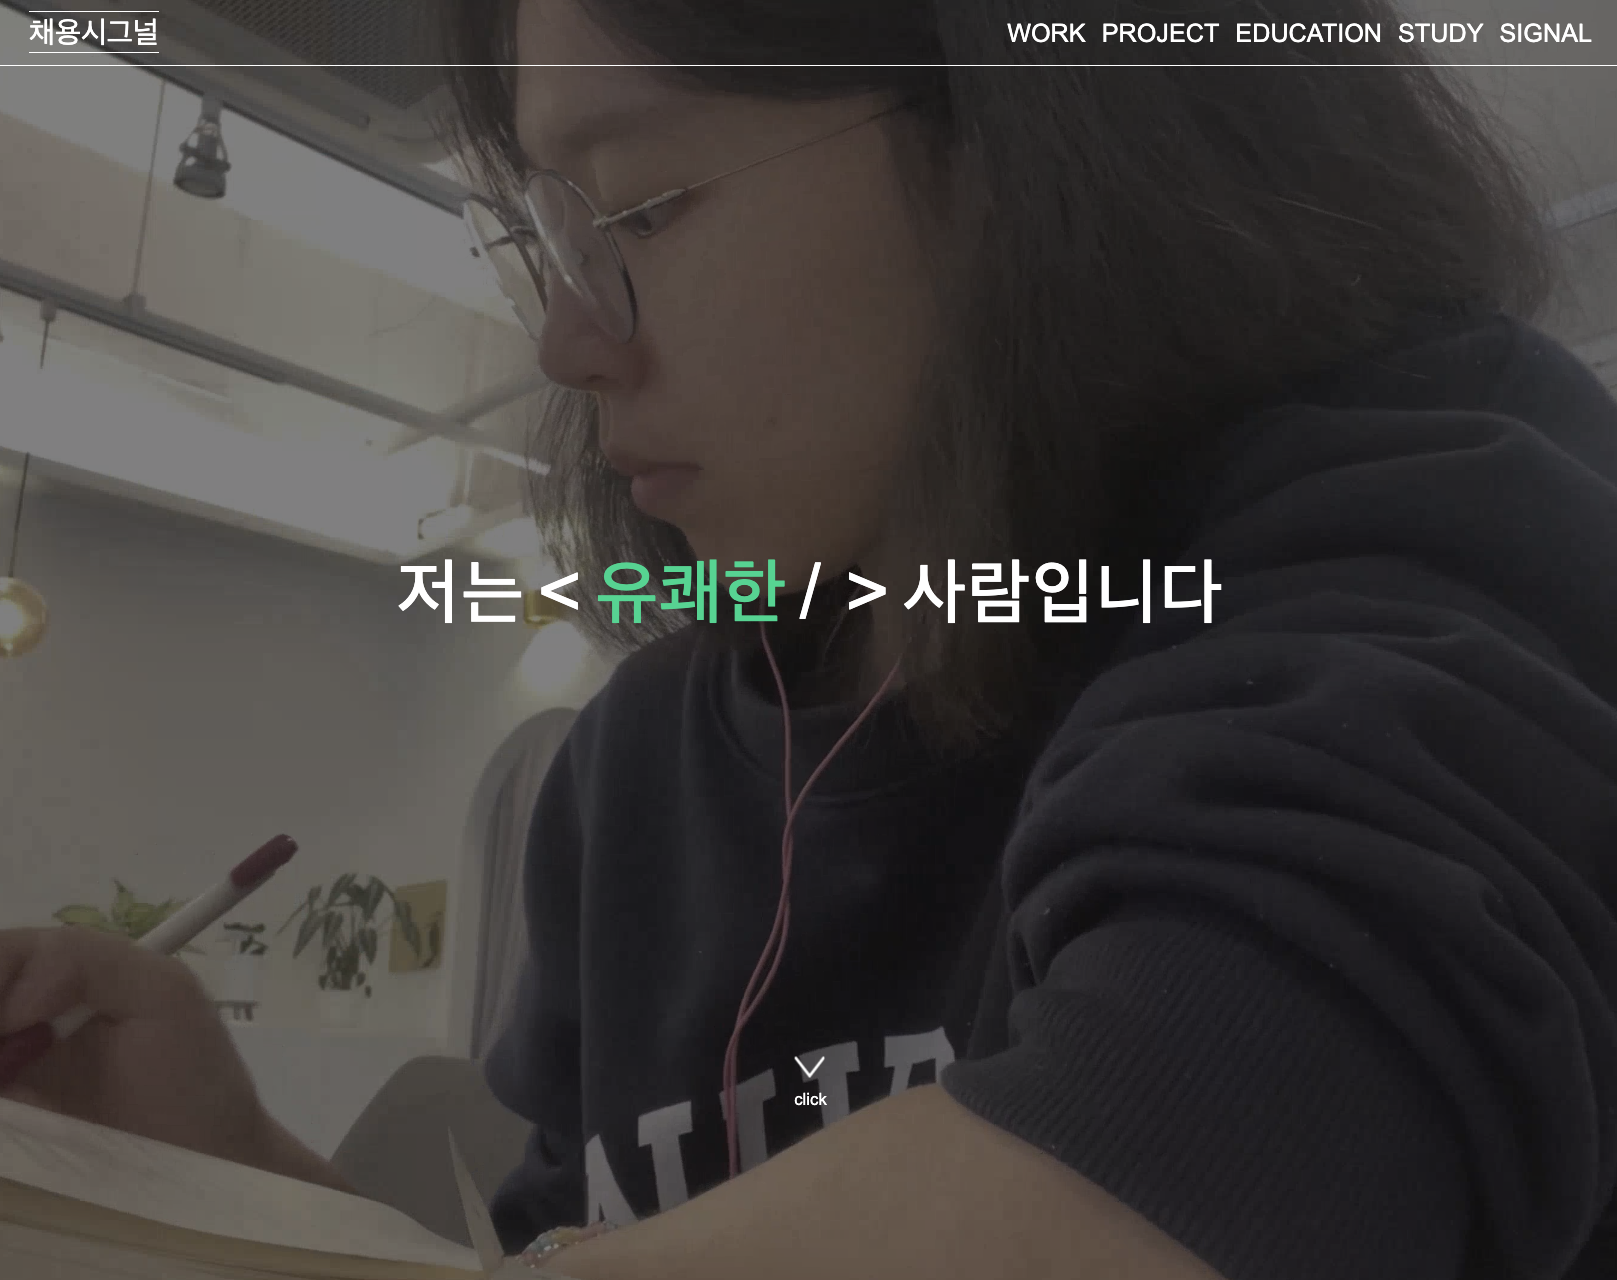
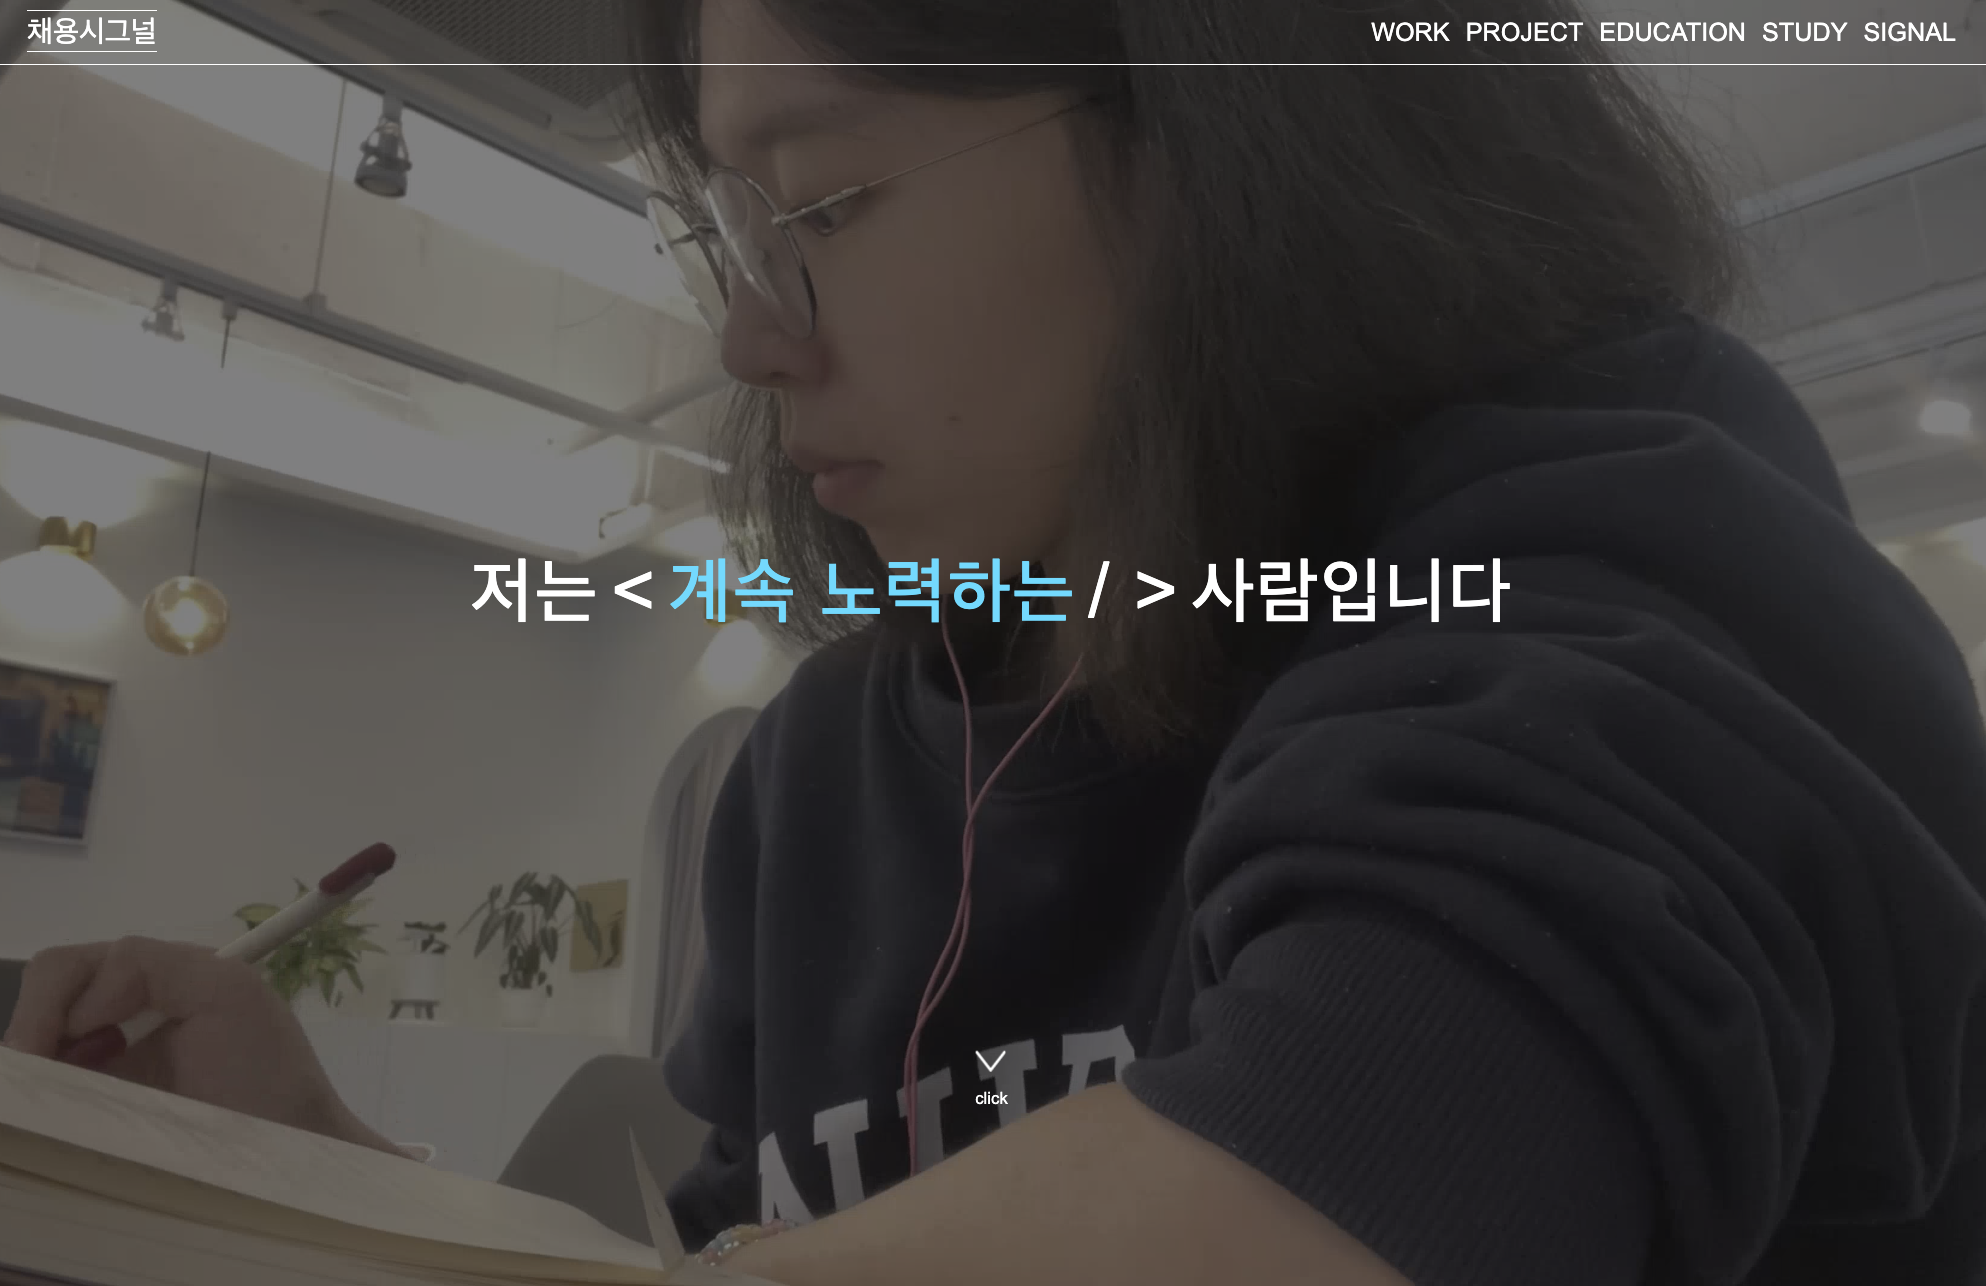
style: css 수정

diff --git a/src/app/globals.css b/src/app/globals.css
@@ -2,20 +2,7 @@
 @tailwind components;
 @tailwind utilities;
 
-/* @import 'tailwindcss/base'; */
-/* @import 'tailwindcss/components'; */
-/* @import './base.css'; */
-/* @import 'tailwindcss/utilities'; */
-
-/* @font-face {
-  font-family: 'EF_watermelonSalad';
-  src: url('https://cdn.jsdelivr.net/gh/projectnoonnu/noonfonts_2210-EF@1.0/EF_watermelonSalad.woff2')
-    format('woff2');
-  font-weight: normal;
-  font-style: normal;
-} */
 /* 배경색 좌에서 우로 채우는 효과 */
-
 .bg-color-container {
   position: relative;
 }
@@ -33,9 +20,8 @@
 .bg-color-container.hovered::before {
   transform: scaleX(1);
 }
-.bg-color-container:hover {
-}
 
+/* 전역 배경 색깔 */
 .peach-mode {
   animation-name: globalBgToPeach;
   animation-duration: 0.2s;
@@ -46,7 +32,7 @@
   animation-duration: 0.1s;
   animation-fill-mode: forwards;
 }
-/* 전역 배경 색깔 */
+
 @keyframes globalBgToPurple {
   from {
     background-color: white;
@@ -83,16 +69,6 @@ figure,
 p,
 pre {
   margin: 0;
-}
-
-h1,
-h2,
-h3,
-h4,
-h5,
-h6 {
-  /* font-family: EF_watermelonSalad; */
-  /* font-family: var(--font-gown-batang); */
 }
 
 ol,

diff --git a/src/app/components/Sections/Video/Typing.tsx b/src/app/components/Sections/Video/Typing.tsx
@@ -2,7 +2,6 @@
 
 import { keyword } from '@/app/constant';
 import useTyping from '@/app/hooks/useTyping';
-
 export default function Typing() {
   const word = useTyping(keyword);
 
@@ -14,7 +13,7 @@ export default function Typing() {
 
       <div className=" flex mx-3 mobile:mx-0 mobile:my-3 tablet:mx-0 tablet:my-5">
         <span> &lt;</span>
-        <span className="mx-3 text-[#00DD99]">{word}</span>
+        <span className="mx-3 text-[#59E1FF]">{word}</span>
         <span> &#47; &gt;</span>
       </div>
 

diff --git a/src/app/components/Sections/Video/Video.tsx b/src/app/components/Sections/Video/Video.tsx
@@ -9,7 +9,6 @@ export default function Video() {
       className="absolute w-screen h-screen object-cover brightness-50"
       loop
       preload="auto"
-      poster="/images/siagnal-thumbnail.png"
       data-setup="{}">
       <source src="/videos/signal.mp4" type="video/mp4"></source>
       <source src="/videos/signal.ogv" type="video/ogv"></source>

diff --git a/src/app/constant/index.ts b/src/app/constant/index.ts
@@ -19,7 +19,7 @@ export const SECTION: ISection[] = [
     to: 'signal-section',
   },
 ];
-export const keyword = ['집요한', '꽤 유쾌한', '그냥 꾸준한'];
+export const keyword = ['보완해가는', '꽤 유쾌한', '계속 노력하는'];
 
 export const queryKeys = {
   SIGNAL_COUNT: 'signalCount',
